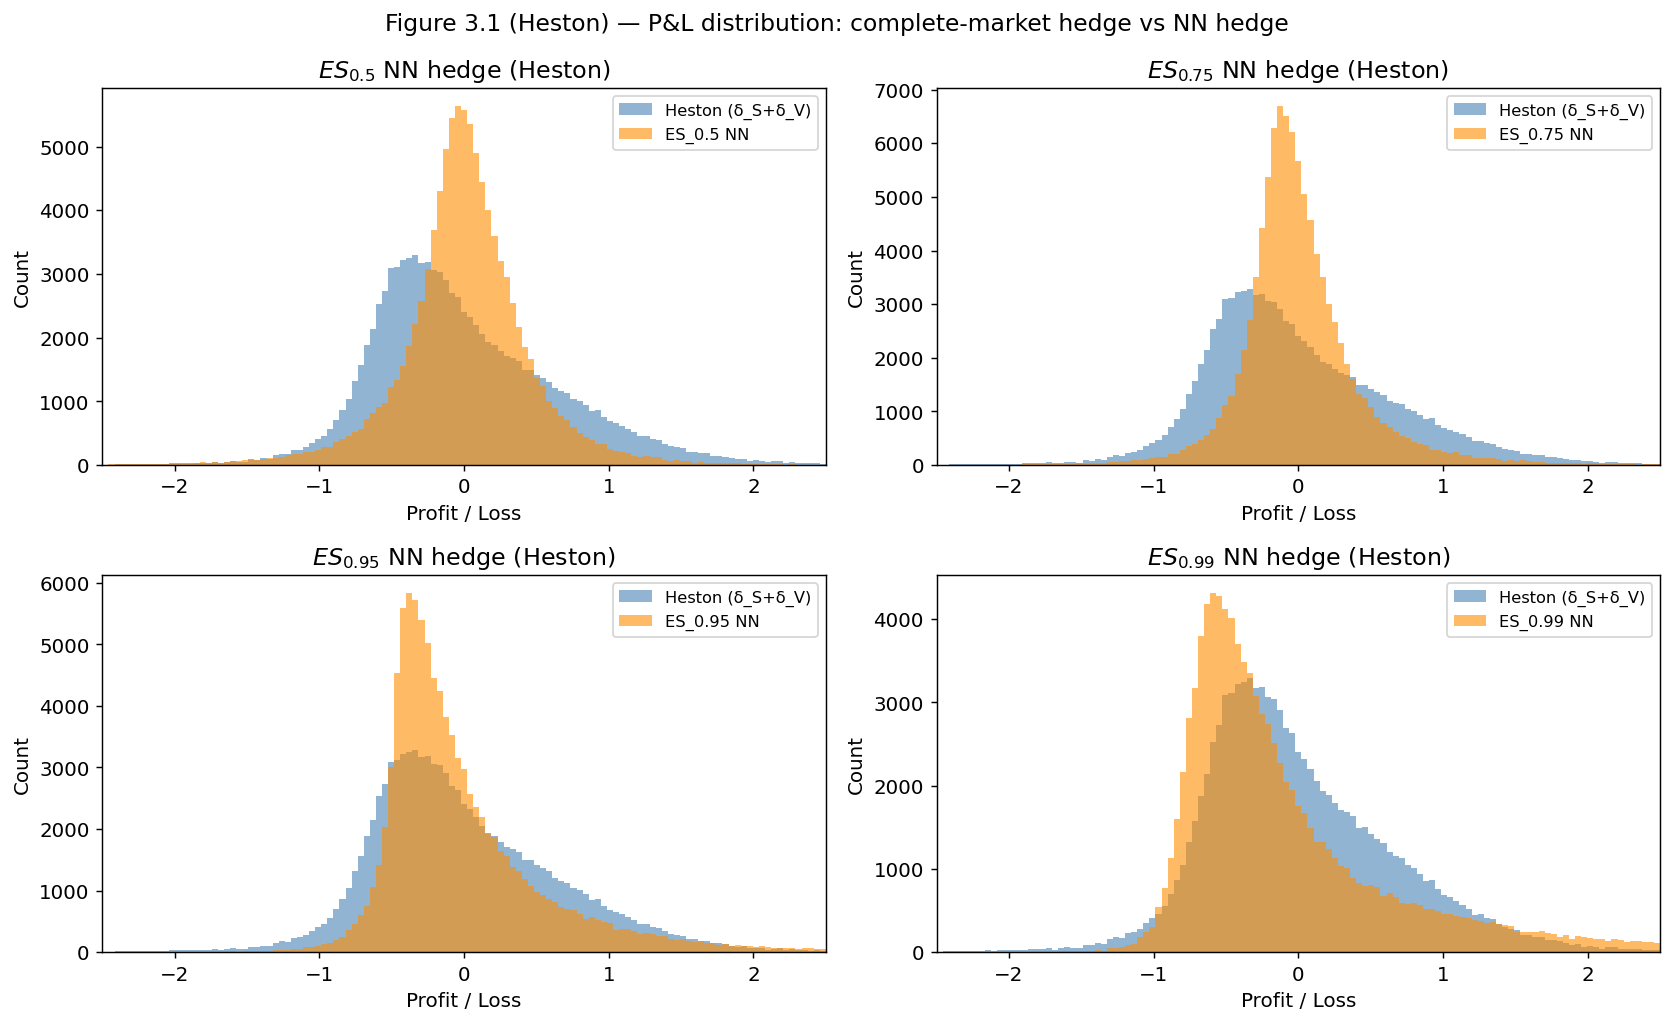
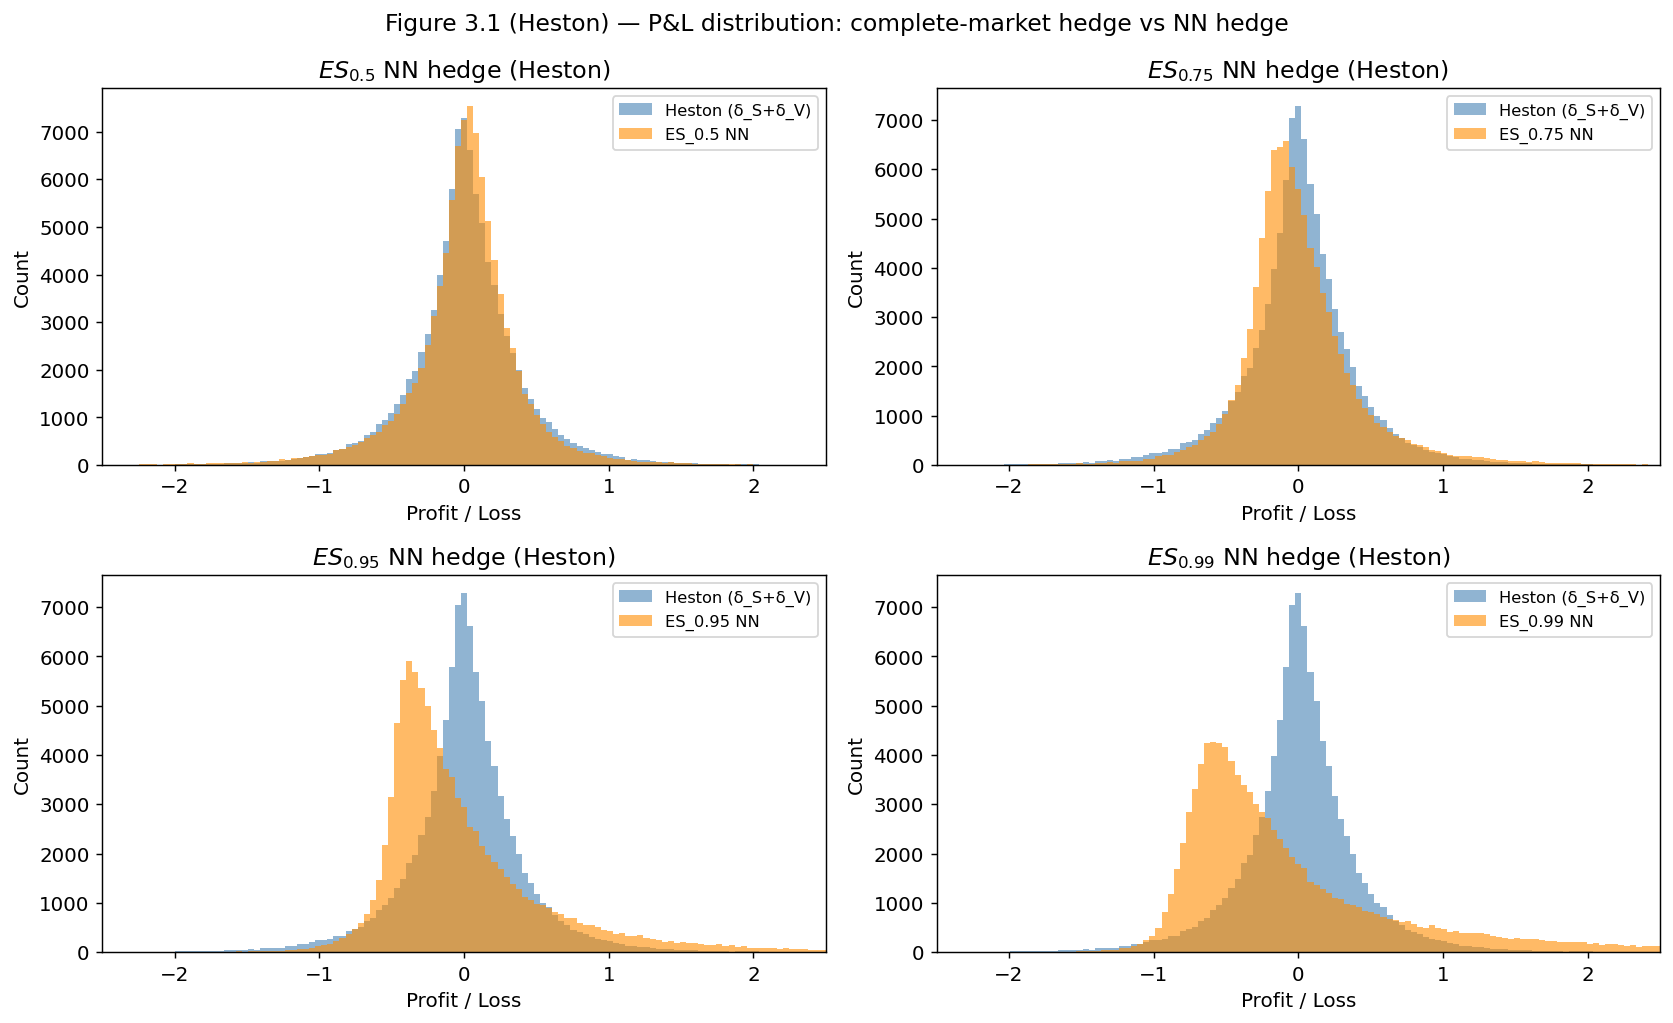
Solved bug on Heston model hedge

diff --git a/src/hedging/theoretical.py b/src/hedging/theoretical.py
@@ -7,23 +7,26 @@ bs_delta(S, tau, K, sigma) -> delta
 
 Heston
 ------
-complete_market_hedge(S_t, V_t, tau, K, kappa) -> (delta_S, delta_V)
+complete_market_hedge(S_t, V_t, tau, K, kappa, theta, xi, rho) -> (delta_S, delta_V)
 
-    Completes the Heston market by pairing the BS delta (stock leg) with a
-    variance-swap vega leg.  The formula follows from:
+    Model hedge for the Heston + variance swap market.
 
-        delta_S = N(d1)   with  sigma = sqrt(V_t)
+    It uses:
+        delta_S = ∂_s u(t, S_t, V_t)
+        delta_V = (∂_v u(t, S_t, V_t)) / (∂_v L(t, V_t))
 
-        delta_V = (dC/dV) / (dVarSwap/dV_t)
+    where u is the Heston call price and
+        L(t, v) = (v - theta)/kappa * (1 - exp(-kappa * tau)) + theta * tau
+    so that
+        ∂_v L(t, v) = (1 - exp(-kappa * tau)) / kappa.
 
-    where
-        dC/dV       = S * sqrt(tau) * phi(d1) / (2*sqrt(V))   [BS vega in V-units]
-        dVarSwap/dV_t = (1 - exp(-kappa*tau)) / kappa          [from Prequel VarSwap formula]
-
-    At tau->0 both legs collapse to the intrinsic hedge (delta_S=1_{S>K}, delta_V=0).
+    At tau -> 0 both legs collapse to the intrinsic hedge
+        delta_S = 1_{S > K}, delta_V = 0.
 """
 
 from __future__ import annotations
+
+import math
 
 import torch
 from torch.distributions import Normal
@@ -32,11 +35,139 @@ _N = Normal(0.0, 1.0)
 
 
 def bs_delta(S: torch.Tensor, tau: float, K: float, sigma: float) -> torch.Tensor:
-    """Black-Scholes call delta.  Returns (S>K).float() at expiry."""
+    """Black-Scholes call delta. Returns (S > K).float() at expiry."""
     if tau <= 1e-9:
         return (S > K).float()
-    d1 = (torch.log(S / K) + 0.5 * sigma ** 2 * tau) / (sigma * tau ** 0.5)
+
+    S = torch.clamp(S, min=1e-12)
+    sigma = max(float(sigma), 1e-12)
+
+    d1 = (torch.log(S / K) + 0.5 * sigma**2 * tau) / (sigma * math.sqrt(tau))
     return _N.cdf(d1)
+
+
+def _heston_cf_log_return(
+    u: torch.Tensor,
+    v0: torch.Tensor,
+    tau: float,
+    kappa: float,
+    theta: float,
+    xi: float,
+    rho: float,
+    r: float = 0.0,
+    q: float = 0.0,
+) -> torch.Tensor:
+    """
+    Characteristic function of X_T = log(S_T / S_t) under the Heston model.
+
+    This uses the standard 'little Heston trap' representation.
+    """
+    if not torch.is_complex(u):
+        raise TypeError("u must be a complex tensor")
+
+    complex_dtype = u.dtype
+    real_dtype = torch.float32 if complex_dtype == torch.complex64 else torch.float64
+
+    v0 = torch.as_tensor(v0, dtype=real_dtype, device=u.device)
+    kappa = torch.as_tensor(kappa, dtype=real_dtype, device=u.device)
+    theta = torch.as_tensor(theta, dtype=real_dtype, device=u.device)
+    xi = torch.as_tensor(xi, dtype=real_dtype, device=u.device)
+    rho = torch.as_tensor(rho, dtype=real_dtype, device=u.device)
+    r = torch.as_tensor(r, dtype=real_dtype, device=u.device)
+    q = torch.as_tensor(q, dtype=real_dtype, device=u.device)
+
+    i = torch.tensor(1j, dtype=complex_dtype, device=u.device)
+    a = kappa * theta
+
+    iu = i * u
+    d = torch.sqrt((rho * xi * iu - kappa) ** 2 + xi**2 * (iu + u**2))
+    g = (kappa - rho * xi * iu - d) / (kappa - rho * xi * iu + d)
+
+    exp_dt = torch.exp(-d * tau)
+
+    C = (r - q) * iu * tau + (a / xi**2) * (
+        (kappa - rho * xi * iu - d) * tau
+        - 2.0 * torch.log((1.0 - g * exp_dt) / (1.0 - g))
+    )
+    D = ((kappa - rho * xi * iu - d) / xi**2) * ((1.0 - exp_dt) / (1.0 - g * exp_dt))
+
+    return torch.exp(C + D * v0)
+
+
+def heston_call_price(
+    S_t: torch.Tensor,
+    V_t: torch.Tensor,
+    tau: float,
+    K: float,
+    kappa: float,
+    theta: float,
+    xi: float,
+    rho: float,
+    r: float = 0.0,
+    q: float = 0.0,
+    n_u: int = 128,
+    u_max: float = 100.0,
+    eps: float = 1e-6,
+) -> torch.Tensor:
+    """
+    Heston European call price C(t, S_t, V_t; K).
+
+    Uses the semi-closed formula
+        C = S_t * P1 - K * exp(-r * tau) * P2
+
+    where P1 and P2 are computed by Fourier inversion.
+
+    Works with scalar or batched S_t, V_t tensors.
+    """
+    if tau <= 1e-10:
+        return torch.clamp(S_t - K, min=0.0)
+
+    orig_shape = S_t.shape
+    S_t = torch.as_tensor(S_t)
+    V_t = torch.as_tensor(V_t, device=S_t.device, dtype=S_t.dtype)
+
+    S = torch.clamp(S_t.reshape(-1, 1), min=1e-12)
+    V = torch.clamp(V_t.reshape(-1, 1), min=1e-12)
+
+    real_dtype = S.dtype
+    complex_dtype = torch.complex64 if real_dtype == torch.float32 else torch.complex128
+
+    u_real = torch.linspace(eps, u_max, n_u, device=S.device, dtype=real_dtype)
+    du = u_real[1] - u_real[0]
+
+    weights = torch.ones_like(u_real)
+    weights[0] = 0.5
+    weights[-1] = 0.5
+
+    u = u_real.to(complex_dtype)[None, :]
+    i = torch.tensor(1j, dtype=complex_dtype, device=S.device)
+
+    K_t = torch.as_tensor(K, device=S.device, dtype=real_dtype)
+    k = (torch.log(K_t) - torch.log(S)).to(complex_dtype)  # log(K / S_t)
+
+    psi_u = _heston_cf_log_return(u, V, tau, kappa, theta, xi, rho, r=r, q=q)
+    psi_u_mi = _heston_cf_log_return(u - i, V, tau, kappa, theta, xi, rho, r=r, q=q)
+
+    # psi(-i) = E[e^{X_T}] = exp((r-q) tau)
+    psi_mi = torch.exp(torch.as_tensor((r - q) * tau, device=S.device, dtype=real_dtype)).to(
+        complex_dtype
+    )
+
+    phase = torch.exp(-i * u * k)
+
+    integrand_p2 = torch.real(phase * psi_u / (i * u))
+    integrand_p1 = torch.real(phase * psi_u_mi / (i * u * psi_mi))
+
+    w = weights[None, :]
+    P2 = 0.5 + (du / torch.pi) * torch.sum(w * integrand_p2, dim=-1)
+    P1 = 0.5 + (du / torch.pi) * torch.sum(w * integrand_p1, dim=-1)
+
+    price = S.squeeze(-1) * P1 - K_t * torch.exp(
+        torch.as_tensor(-r * tau, device=S.device, dtype=real_dtype)
+    ) * P2
+    price = torch.clamp(price, min=0.0)
+
+    return price.reshape(orig_shape)
 
 
 def complete_market_hedge(
@@ -44,36 +175,39 @@ def complete_market_hedge(
     V_t: torch.Tensor,
     tau: float,
     K: float,
-    kappa: float,
+    kappa: float,   # paper's alpha
+    theta: float,   # paper's b
+    xi: float,
+    rho: float,
+    eps_s: float = 1e-3,
+    eps_v: float = 1e-5,
 ) -> tuple[torch.Tensor, torch.Tensor]:
     """
-    Delta-vega hedge that completes the Heston market via the variance swap.
+    Model hedge in the Heston + variance swap market.
 
-    Args:
-        S_t:   Stock prices at time t,              shape (M,)
-        V_t:   Instantaneous variances at time t,   shape (M,)
-        tau:   Time to maturity  T - t  (years)
-        K:     Strike price
-        kappa: Heston mean-reversion rate
-
-    Returns:
-        delta_S: Stock hedge ratio,     shape (M,)
-        delta_V: Var-swap hedge ratio,  shape (M,)
+    delta_S = ∂_s u
+    delta_V = (∂_v u) / (∂_v L),   where ∂_v L = (1 - exp(-kappa * tau)) / kappa
     """
-    if tau <= 1e-9:
+    if tau <= 1e-10:
         return (S_t > K).float(), torch.zeros_like(S_t)
 
-    V_c   = torch.clamp(V_t, min=1e-6)
-    sigma = V_c.sqrt()
-    d1    = (torch.log(S_t / K) + 0.5 * V_c * tau) / (sigma * tau ** 0.5)
+    S_t = torch.clamp(S_t, min=1e-10)
+    V_t = torch.clamp(V_t, min=1e-10)
 
-    delta_S = _N.cdf(d1)
+    S_up = S_t + eps_s
+    S_dn = torch.clamp(S_t - eps_s, min=1e-10)
+    V_up = V_t + eps_v
+    V_dn = torch.clamp(V_t - eps_v, min=1e-10)
 
-    # dC/dV  (BS vega expressed in variance units, not vol units)
-    vega_V = S_t * (tau ** 0.5) * _N.log_prob(d1).exp() / (2.0 * sigma)
+    u_S_up = heston_call_price(S_up, V_t, tau, K, kappa, theta, xi, rho)
+    u_S_dn = heston_call_price(S_dn, V_t, tau, K, kappa, theta, xi, rho)
+    u_V_up = heston_call_price(S_t, V_up, tau, K, kappa, theta, xi, rho)
+    u_V_dn = heston_call_price(S_t, V_dn, tau, K, kappa, theta, xi, rho)
 
-    # dVarSwap/dV_t  (sensitivity of the Prequel VarSwap price to current variance)
-    dvs_dv = (1.0 - torch.exp(torch.full_like(V_t, -kappa * tau))) / kappa
+    delta_S = (u_S_up - u_S_dn) / (S_up - S_dn)
+    du_dv = (u_V_up - u_V_dn) / (V_up - V_dn)
 
-    delta_V = vega_V / dvs_dv
+    dL_dv = (1.0 - torch.exp(torch.tensor(-kappa * tau, device=S_t.device, dtype=S_t.dtype))) / kappa
+    delta_V = du_dv / dL_dv
+
     return delta_S, delta_V

diff --git a/src/train_heston.py b/src/train_heston.py
@@ -55,7 +55,7 @@ params = HestonParams(
     kappa=kappa, theta=theta, xi=xi, rho=rho,
     T=T, N=N, M=M_train,
 )
-S, V, VarPrice = simulate(params, seed=42)
+S, V, VarPrice = simulate(params, seed=19)
 print(f"  S:        {S.shape}")
 print(f"  V:        {V.shape}")
 print(f"  VarPrice: {VarPrice.shape}")